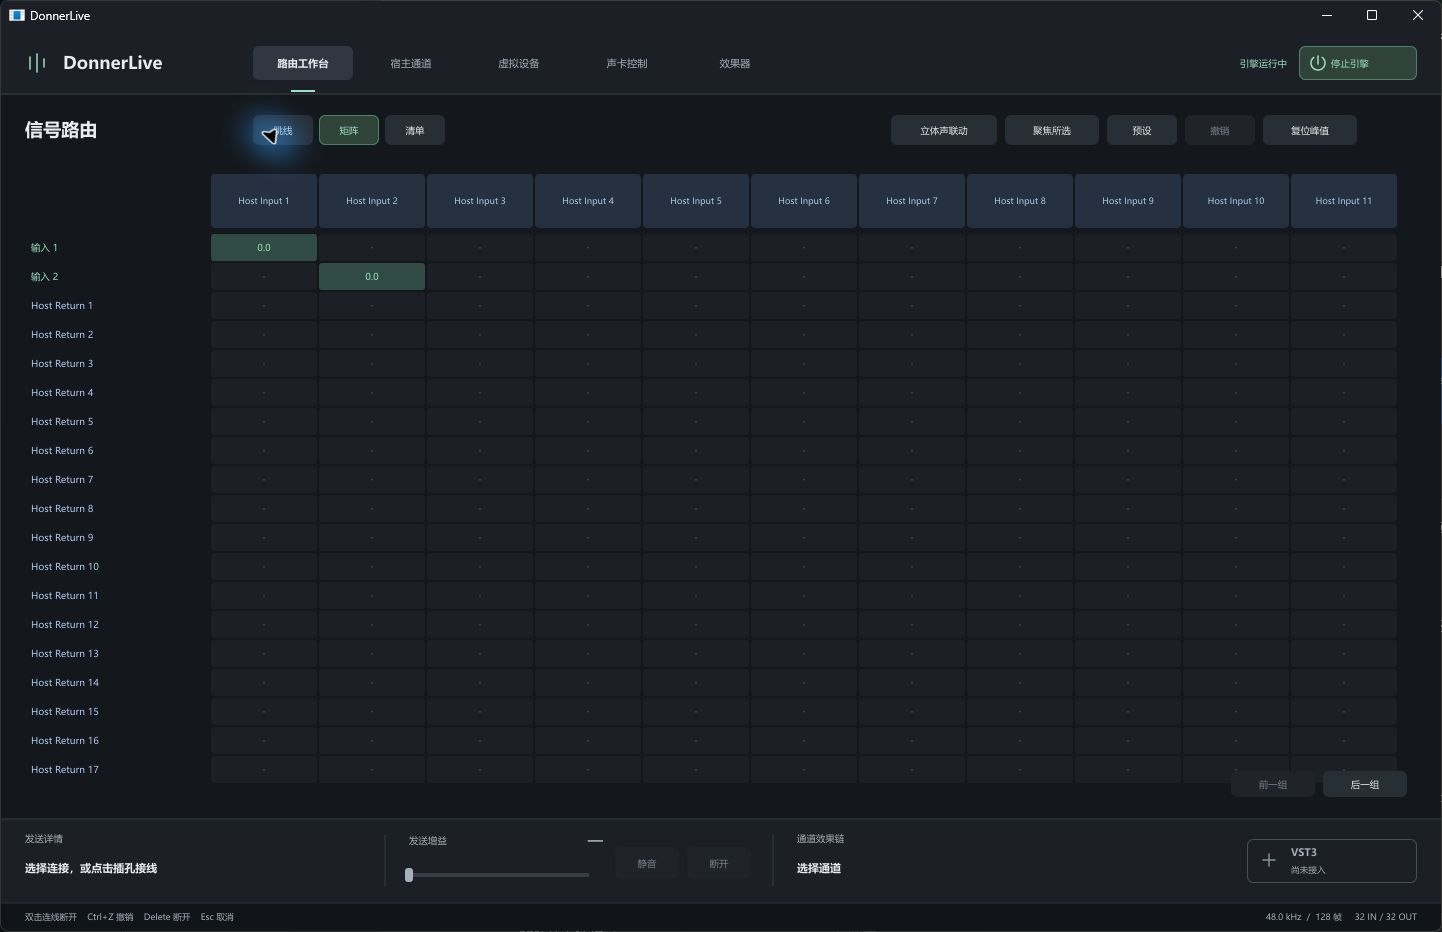
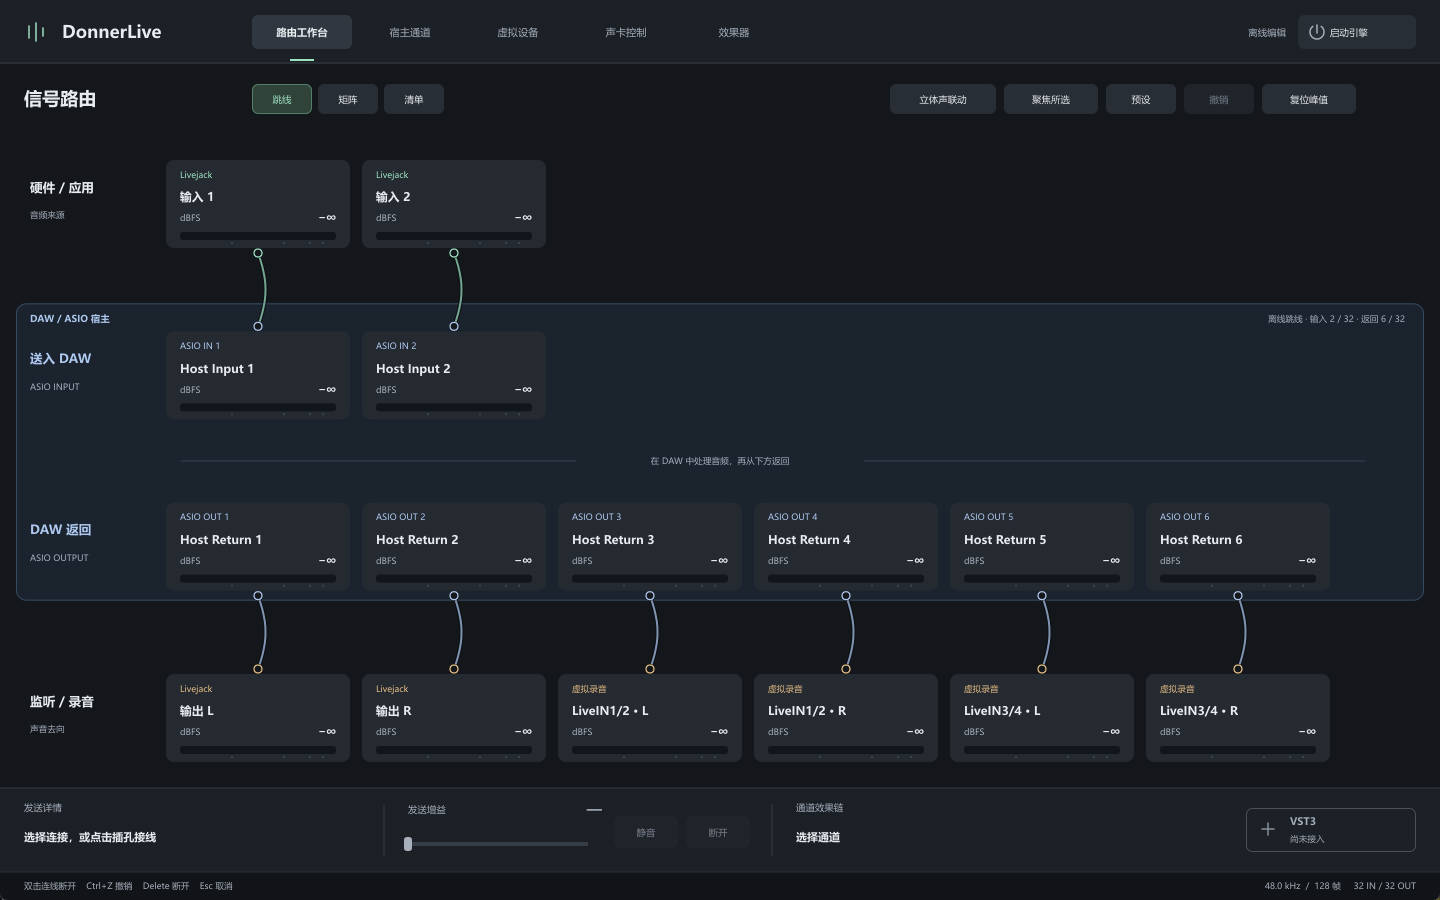
Refresh screenshots and align README routing presentation

diff --git a/README.md b/README.md
@@ -14,10 +14,14 @@ An audio control and patch-routing tool for the Donner Livejack on Windows. It u
 [Elgato Wave Link Driver](https://www.elgato.com/us/en/s/wave-link-app) to provide virtual audio devices
 and interfaces, adding virtual outputs and patch routing to the sound card.
 
-<p align="center"><strong>Routing matrix</strong></p>
-<p align="center">
-  <a href="assets/readme/routing-matrix.jpg"><img src="assets/readme/routing-matrix.jpg" alt="DonnerLive routing matrix with per-send gain" width="100%"></a>
-</p>
+<table>
+  <tr>
+    <td width="100%" align="center"><strong>Routing</strong></td>
+  </tr>
+  <tr>
+    <td><a href="assets/readme/routing-matrix.jpg"><img src="assets/readme/routing-matrix.jpg" alt="DonnerLive audio routing" width="100%"></a></td>
+  </tr>
+</table>
 
 <table>
   <tr>

diff --git a/README.zh-CN.md b/README.zh-CN.md
@@ -12,10 +12,14 @@
 
 Windows 上的 Donner Livejack 声卡控制与跳线路由工具。借由 [Elgato Wave Link Driver](https://www.elgato.com/us/en/s/wave-link-app) 提供虚拟音频设备及接口, 补齐声卡的虚拟输出,跳线功能。
 
-<p align="center"><strong>路由矩阵</strong></p>
-<p align="center">
-  <a href="assets/readme/routing-matrix.jpg"><img src="assets/readme/routing-matrix.jpg" alt="DonnerLive 路由矩阵与逐发送增益" width="100%"></a>
-</p>
+<table>
+  <tr>
+    <td width="100%" align="center"><strong>路由</strong></td>
+  </tr>
+  <tr>
+    <td><a href="assets/readme/routing-matrix.jpg"><img src="assets/readme/routing-matrix.jpg" alt="DonnerLive 音频路由" width="100%"></a></td>
+  </tr>
+</table>
 
 <table>
   <tr>
